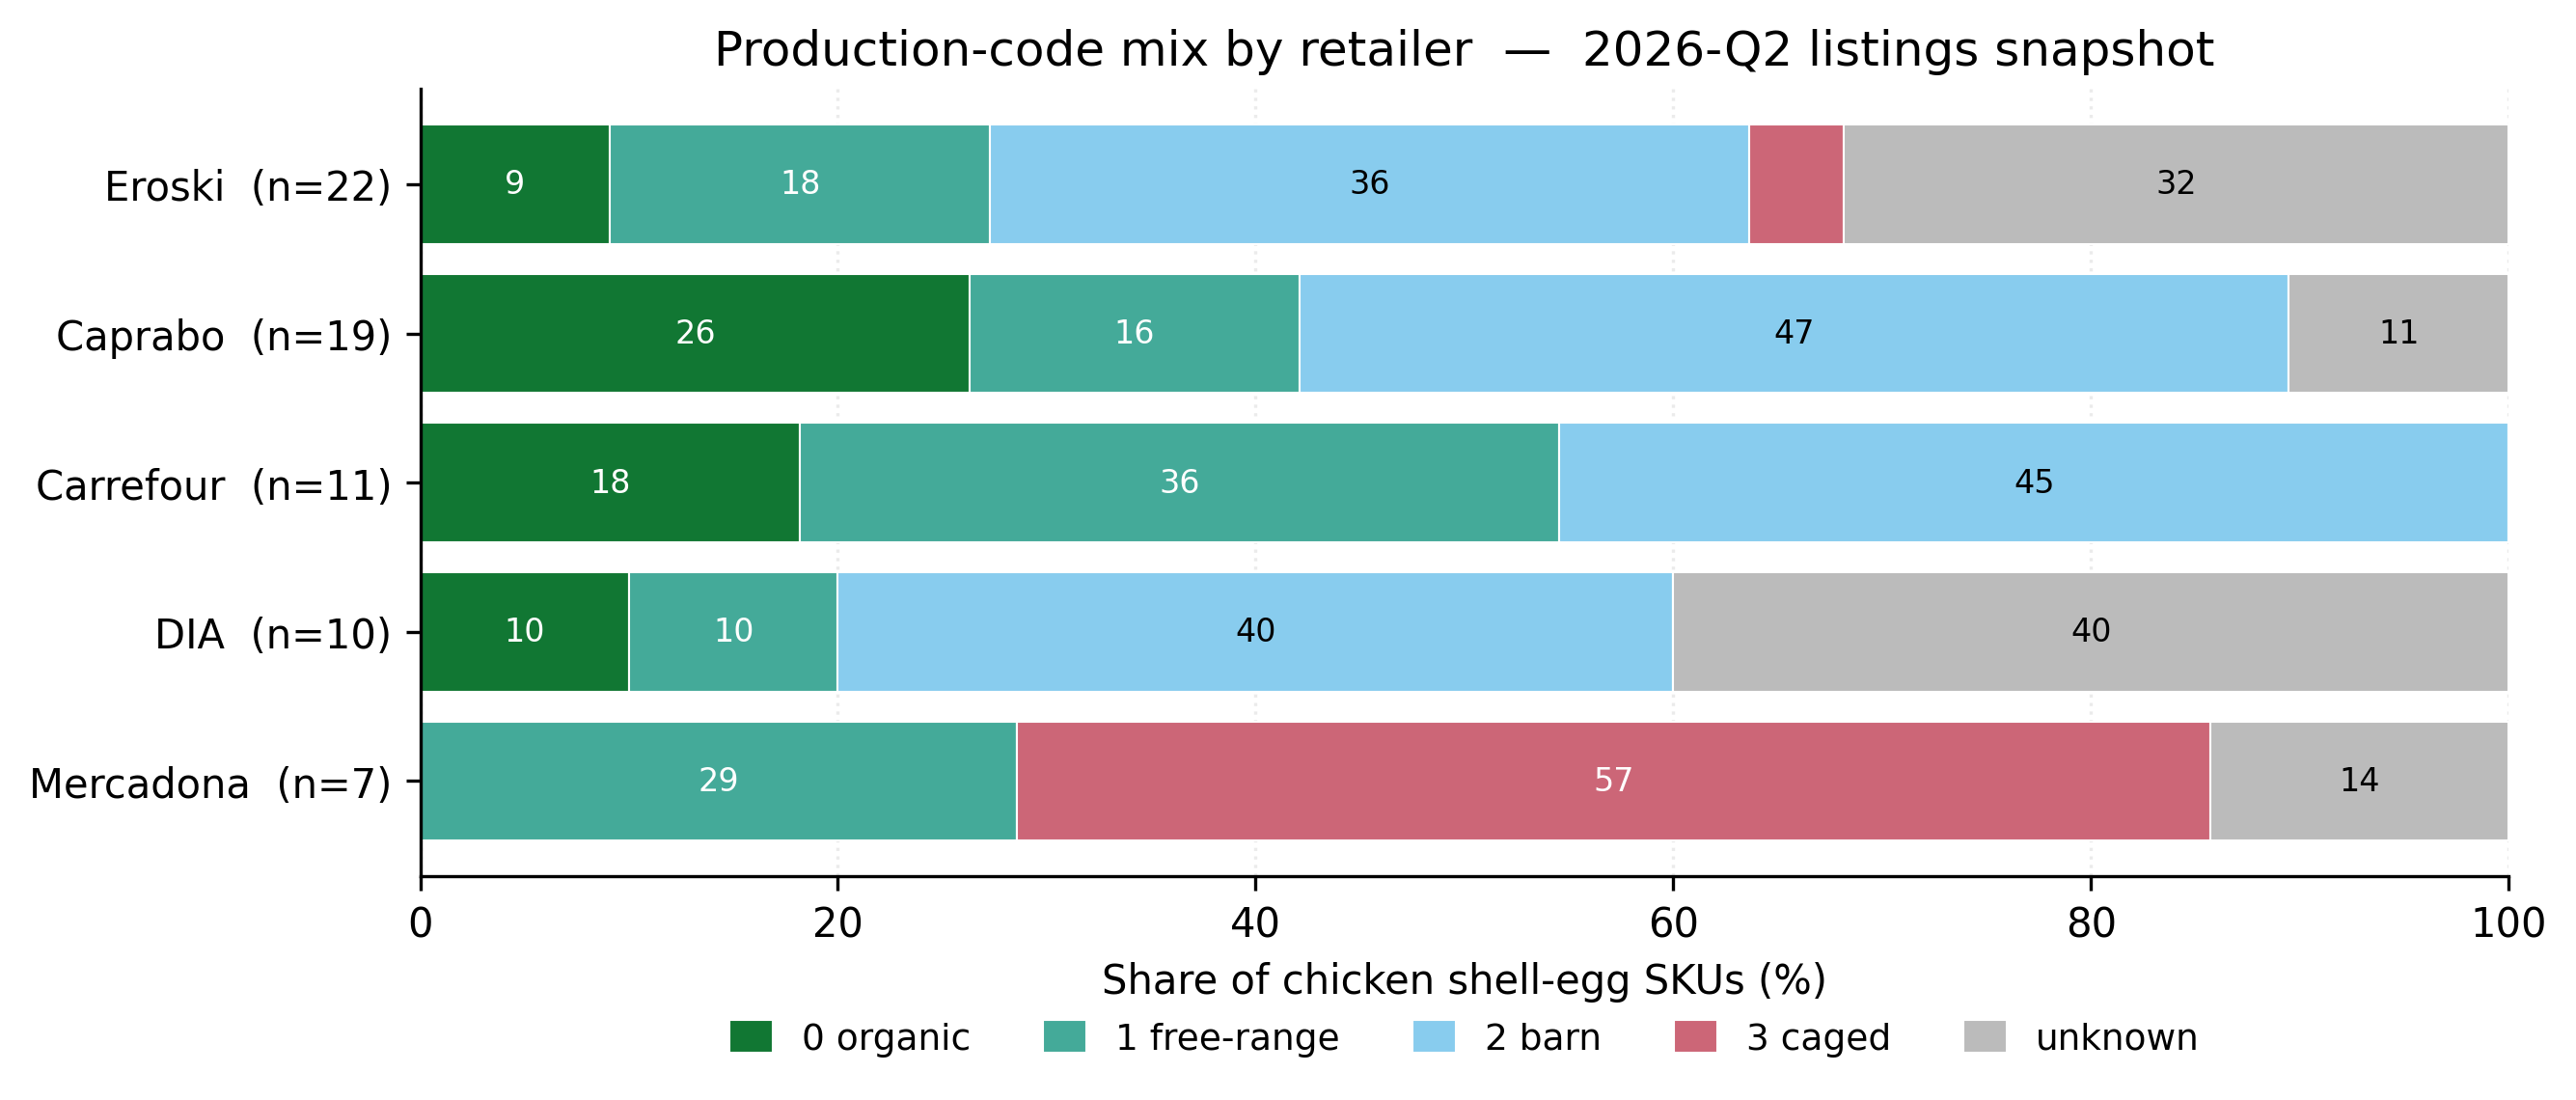
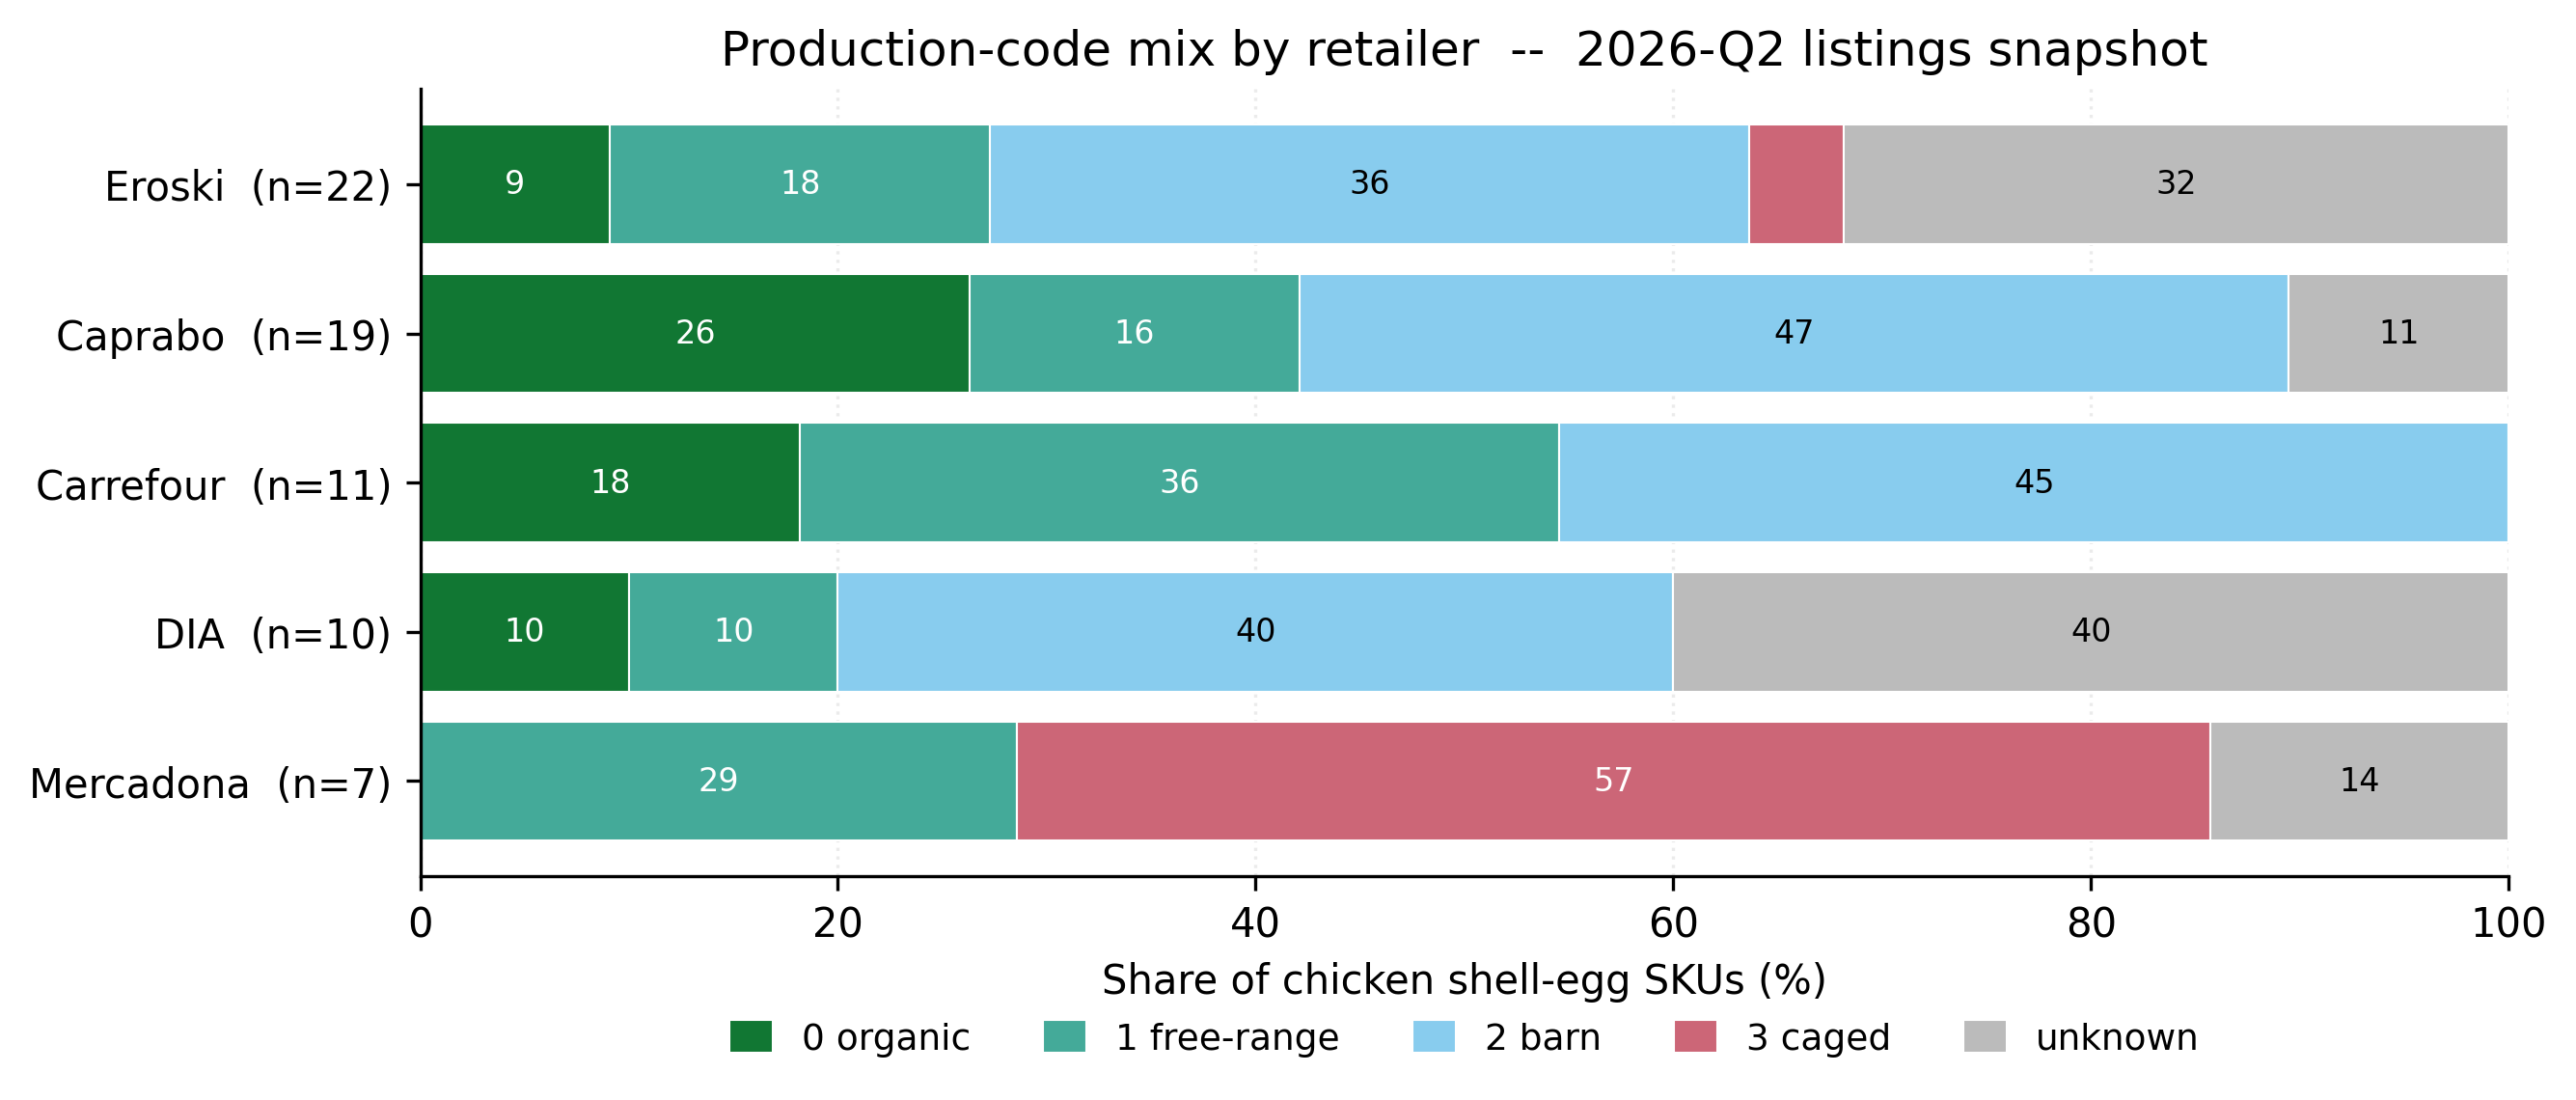
Revise report and redesign Figure 2 as box-and-whisker
10-point revision: define SKU early, add section on true estimate
bounds, restructure conclusions (Mercadona as prime target, Eglitis
& Kanepajs 2026 methodology reference), simplify AI disclosure.

Figure 2 redesigned: proper box-and-whisker via matplotlib bxp()
(box = strict to Bayes base, median = Bayes informed, whiskers =
Wilson 95% CI). Neutral grey whiskers for readability.

Changed region(s): [[0.2798, 0.0307, 0.8704, 0.0614]]

diff --git a/scripts/make_figures.py b/scripts/make_figures.py
@@ -1,7 +1,7 @@
 """Render the two report figures from scraper/data/comparison/<quarter>_comparison.json.
 
 Figure 1: stacked horizontal bar of SKU production-code mix by retailer.
-Figure 2: listings cage-free central vs prior 50% CI dumbbell, by retailer.
+Figure 2: box-and-whisker of listings cage-free estimates vs prior 50% CI.
 
 Run from project root:
     python scripts/make_figures.py 2026-Q2
@@ -28,10 +28,10 @@ COLOR_FREE_RANGE = "#44AA99"   # teal
 COLOR_BARN       = "#88CCEE"   # pale blue (still cage-free)
 COLOR_CAGED      = "#CC6677"   # muted red
 COLOR_UNKNOWN    = "#BBBBBB"   # neutral grey
-COLOR_PRIOR_BAND = "#DDDDDD"
-COLOR_INSIDE     = "#117733"   # green dot if listings central inside prior 50% CI
-COLOR_OUTSIDE    = "#CC6677"   # red dot if outside
-COLOR_REPORTED   = "#332288"   # navy for reported / prior central
+COLOR_PRIOR      = "#332288"   # navy for prior central + CI
+COLOR_BOX_IN     = "#117733"   # green box if listings central inside prior 50% CI
+COLOR_BOX_OUT    = "#CC6677"   # red box if outside
+COLOR_MEDIAN     = "#DDAA33"   # amber for median line inside box
 
 
 def quarter_tag_default() -> str:
@@ -44,38 +44,8 @@ def load(tag: str, root: Path) -> list[dict]:
     return json.loads(path.read_text(encoding="utf-8"))
 
 
-def fig1_sku_mix(rows: list[dict], out: Path, tag: str) -> None:
-    """Stacked horizontal bar — SKU code mix per retailer (excludes Eroski Group rollup)."""
-    rows = [r for r in rows if r["retailer"] != "Eroski Group" and (r.get("shell_egg_listings") or 0) > 0]
-    rows = sorted(rows, key=lambda r: r["shell_egg_listings"], reverse=True)
-
-    retailers = [r["retailer"] for r in rows]
-    n = [r["shell_egg_listings"] for r in rows]
-
-    # Each retailer's SKU mix as percentages of n.
-    def pct(r, k):
-        return 100.0 * r.get(k, 0) / r["shell_egg_listings"] if r["shell_egg_listings"] else 0.0
-
-    organic    = [pct(r, "organic")    for r in rows]
-    free_range = [pct(r, "free_range") for r in rows]
-    barn       = [pct(r, "barn")       for r in rows]
-    caged      = [pct(r, "caged_skus") for r in rows]
-    unknown    = [pct(r, "unknown_skus") for r in rows]
-
-    # Read the SKU code counts back from the source data so the function can use either
-    # the comparison-row schema (cage_free_skus split) or the summary-row schema.
-    # The comparison rows have organic/free_range/barn rolled up into cage_free_skus,
-    # so we need to load the per-row breakdown from the summary file.
-    pass  # handled below by reading summary
-
-    # For organic/free_range/barn split we need the per-summary row; the comparison
-    # row only has cage_free_skus. Load the summary file alongside.
-
-    return retailers, n, organic, free_range, barn, caged, unknown
-
-
 def fig1_sku_mix_v2(summary_rows: list[dict], out: Path, tag: str) -> None:
-    """Stacked horizontal bar — SKU code mix per retailer.
+    """Stacked horizontal bar -- SKU code mix per retailer.
 
     Uses the summary file (organic/free_range/barn split). Excludes Lidl
     (no shell-egg listings online) and the Eroski Group rollup.
@@ -122,7 +92,7 @@ def fig1_sku_mix_v2(summary_rows: list[dict], out: Path, tag: str) -> None:
     ax.invert_yaxis()
     ax.set_xlim(0, 100)
     ax.set_xlabel("Share of chicken shell-egg SKUs (%)")
-    ax.set_title(f"Production-code mix by retailer  —  {tag} listings snapshot")
+    ax.set_title(f"Production-code mix by retailer  --  {tag} listings snapshot")
     ax.spines["top"].set_visible(False)
     ax.spines["right"].set_visible(False)
     ax.grid(axis="x", alpha=0.25, linestyle=":")
@@ -136,86 +106,97 @@ def fig1_sku_mix_v2(summary_rows: list[dict], out: Path, tag: str) -> None:
     plt.close(fig)
 
 
-def fig2_central_vs_prior(comparison_rows: list[dict], out: Path, tag: str) -> None:
-    """Listings central (Bayesian-shrunk) vs prior 50% CI for each retailer.
+def fig2_box_whisker(comparison_rows: list[dict], out: Path, tag: str) -> None:
+    """Box-and-whisker of listings cage-free estimates vs prior 50% CI.
 
     For each retailer with both listings and a prior:
-      - draw the prior 50% CI as a horizontal grey band, with the prior central as a navy circle
-      - draw the listings strict-95% CI as a black whisker
-      - mark the listings Bayes(1,1) central (base case) as a coloured square (green if inside the prior 50% CI, red if outside)
-      - mark the listings Bayes(1,2) informed-prior central as a black diamond
-      - annotate the gap (central minus prior) in pp
+      - Box spans from strict estimate (q1) to Bayesian(1,1) base case (q3)
+      - Median line inside the box = Bayesian(1,2) informed prior
+      - Whiskers = Wilson 95% CI bounds
+      - Prior shown as a separate blue circle with 50% CI error bars
     """
-    rows = [r for r in comparison_rows if r.get("listings_central_pct") is not None and r.get("prior_estimate_pct") is not None]
-    # Sort by retailer egg-volume rank for visual narrative (largest at top).
+    rows = [r for r in comparison_rows
+            if r.get("listings_central_pct") is not None
+            and r.get("prior_estimate_pct") is not None]
     order = ["Mercadona", "Carrefour", "Lidl", "Eroski", "Caprabo", "DIA", "Eroski Group"]
     rows = sorted(rows, key=lambda r: order.index(r["retailer"]) if r["retailer"] in order else 99)
 
     fig, ax = plt.subplots(figsize=(9, 4.5), dpi=300)
     retailers = [r["retailer"] for r in rows]
-    y = list(range(len(retailers)))
+    y_positions = list(range(len(retailers)))
 
-    for yi, r in zip(y, rows):
-        prior_lo, prior_hi = (int(s) for s in r["prior_estimate_50ci"].split("-"))
+    for yi, r in zip(y_positions, rows):
         prior_pct = r["prior_estimate_pct"]
-        central = r["listings_central_pct"]
-        informed = r.get("listings_central_informed_pct", central)
-        strict_pct = r["listings_cf_strict_pct"]
+        prior_lo, prior_hi = (int(s) for s in r["prior_estimate_50ci"].split("-"))
+        strict = r["listings_cf_strict_pct"]
+        central = r["listings_central_pct"]       # Bayes(1,1) -- box upper edge
+        informed = r.get("listings_central_informed_pct", central)  # Bayes(1,2) -- median line
+        in_band = r["central_in_prior_50ci"]
+
         strict_ci_str = r.get("listings_cf_strict_95ci", "")
         if strict_ci_str:
-            strict_lo, strict_hi = (int(s) for s in strict_ci_str.split("-"))
+            wilson_lo, wilson_hi = (int(s) for s in strict_ci_str.split("-"))
         else:
-            strict_lo, strict_hi = strict_pct, strict_pct
+            wilson_lo, wilson_hi = strict, strict
 
-        in_band = r["central_in_prior_50ci"]
-        central_color = COLOR_INSIDE if in_band else COLOR_OUTSIDE
+        # Extend whiskers to cover both Wilson CI and box edges
+        whisker_lo = min(wilson_lo, strict)
+        whisker_hi = max(wilson_hi, central)
 
-        # Prior 50% CI as a horizontal band
-        ax.add_patch(mpatches.Rectangle((prior_lo, yi - 0.30), prior_hi - prior_lo, 0.60,
-                                        facecolor=COLOR_PRIOR_BAND, edgecolor="none", zorder=1))
-        # Prior central
-        ax.scatter([prior_pct], [yi], marker="o", s=70, color=COLOR_REPORTED, zorder=4, label="_nolegend_")
+        box_color = COLOR_BOX_IN if in_band else COLOR_BOX_OUT
 
-        # Strict 95% CI as a whisker line
-        ax.plot([strict_lo, strict_hi], [yi - 0.05, yi - 0.05], color="#444444", linewidth=1.2, zorder=2)
-        # Strict point estimate (small triangle)
-        ax.scatter([strict_pct], [yi - 0.05], marker="v", s=35, color="#444444", zorder=3)
+        # Draw box-and-whisker using matplotlib bxp (pre-computed stats)
+        box_stats = [{
+            "whislo": whisker_lo,
+            "q1": strict,
+            "med": informed,
+            "q3": central,
+            "whishi": whisker_hi,
+            "fliers": [],
+        }]
+        bp = ax.bxp(box_stats, positions=[yi - 0.12], vert=False, widths=0.38,
+                     patch_artist=True, showfliers=False,
+                     boxprops=dict(facecolor=box_color, alpha=0.35, edgecolor=box_color, linewidth=1.5),
+                     medianprops=dict(color=COLOR_MEDIAN, linewidth=2.0),
+                     whiskerprops=dict(color="#555555", linewidth=1.0),
+                     capprops=dict(color="#555555", linewidth=1.0))
 
-        # Bayes(1,1) base case
-        ax.scatter([central], [yi + 0.18], marker="s", s=80, color=central_color, edgecolor="white", linewidth=1.0, zorder=4)
-        # Bayes(1,2) informed-prior alternative — only annotate if it differs visibly,
-        # offset slightly upward so it doesn't sit on top of the Bayes(1,1) square
-        if abs(informed - central) >= 1:
-            ax.scatter([informed], [yi + 0.32], marker="D", s=45, color="black", zorder=4)
+        # Prior: blue circle with 50% CI error bars, slightly below the box
+        ax.errorbar(prior_pct, yi + 0.22, xerr=[[prior_pct - prior_lo], [prior_hi - prior_pct]],
+                     fmt="o", color=COLOR_PRIOR, markersize=7, capsize=4, capthick=1.2,
+                     elinewidth=1.2, zorder=5)
 
-        # Gap annotation in a right-hand column at fixed x, aligned across rows
+        # Gap annotation
         gap = r["diff_central_minus_prior_pp"]
         if gap is not None:
-            sign = "+" if gap > 0 else ("" if gap == 0 else "")
-            ax.text(106, yi, f"{sign}{gap} pp", va="center", ha="left",
-                    fontsize=9, color=central_color, fontweight="bold" if abs(gap) >= 10 else "normal")
+            sign = "+" if gap > 0 else ""
+            ax.text(108, yi, f"{sign}{gap} pp", va="center", ha="left",
+                    fontsize=9, color=box_color, fontweight="bold" if abs(gap) >= 10 else "normal")
 
-    ax.set_yticks(y)
+    ax.set_yticks(y_positions)
     ax.set_yticklabels(retailers)
     ax.invert_yaxis()
-    ax.set_xlim(0, 105)
+    ax.set_xlim(0, 107)
     ax.set_xlabel("Cage-free share (%)")
-    ax.set_title(f"Listings cage-free central vs prior 50% CI  —  {tag}")
+    ax.set_title(f"Listings cage-free estimates vs prior  --  {tag}")
     ax.spines["top"].set_visible(False)
     ax.spines["right"].set_visible(False)
     ax.grid(axis="x", alpha=0.25, linestyle=":")
     ax.set_axisbelow(True)
 
-    # Legend — explain marker semantics rather than colours per retailer.
+    # Legend
     legend_items = [
-        mpatches.Patch(facecolor=COLOR_PRIOR_BAND, label="Prior 50% CI (subjective band)"),
-        plt.Line2D([0], [0], marker="o", color=COLOR_REPORTED, markersize=8, linestyle="None", label="Prior central (reported / blended)"),
-        plt.Line2D([0], [0], marker="s", color=COLOR_INSIDE, markersize=8, linestyle="None", label="Listings Bayes(1,1) — inside 50% CI"),
-        plt.Line2D([0], [0], marker="s", color=COLOR_OUTSIDE, markersize=8, linestyle="None", label="Listings Bayes(1,1) — outside 50% CI"),
-        plt.Line2D([0], [0], marker="D", color="black", markersize=6, linestyle="None", label="Listings Bayes(1,2) informed prior"),
-        plt.Line2D([0], [0], marker="v", color="#444444", markersize=6, linestyle="None", label="Listings strict (Wilson 95% CI shown)"),
+        mpatches.Patch(facecolor=COLOR_BOX_IN, alpha=0.35, edgecolor=COLOR_BOX_IN,
+                       label="Listings range (strict to Bayes base) -- consistent"),
+        mpatches.Patch(facecolor=COLOR_BOX_OUT, alpha=0.35, edgecolor=COLOR_BOX_OUT,
+                       label="Listings range -- inconsistent with prior"),
+        plt.Line2D([0], [0], color=COLOR_MEDIAN, linewidth=2, label="Bayes(1,2) informed estimate"),
+        plt.Line2D([0], [0], color="#555555", linewidth=1.0,
+                   label="Wilson 95% CI whiskers"),
+        plt.Line2D([0], [0], marker="o", color=COLOR_PRIOR, markersize=7, linestyle="None",
+                   label="Prior central (50% CI error bars)"),
     ]
-    ax.legend(handles=legend_items, loc="lower center", bbox_to_anchor=(0.5, -0.32),
+    ax.legend(handles=legend_items, loc="lower center", bbox_to_anchor=(0.5, -0.35),
               ncol=2, frameon=False, fontsize=8)
 
     fig.tight_layout()
@@ -235,7 +216,7 @@ def main() -> None:
     out2 = out_dir / f"fig2_listings_vs_prior_{tag}.png"
 
     fig1_sku_mix_v2(summary_rows, out1, tag)
-    fig2_central_vs_prior(comparison_rows, out2, tag)
+    fig2_box_whisker(comparison_rows, out2, tag)
 
     print(f"Wrote {out1}")
     print(f"Wrote {out2}")

diff --git a/spain_egg_listings_2026Q2.md b/spain_egg_listings_2026Q2.md
@@ -1,18 +1,20 @@
-# Listing-level cage-free check on Spain's top-5 grocery retailers — 2026-Q2
+# Listing-level cage-free check on Spain's top-5 grocery retailers -- 2026-Q2
 
 **Snapshot 2026-05-04. n = 69 chicken shell-egg SKUs across Mercadona, Carrefour, Lidl, Eroski (with subsidiary Caprabo) and DIA. Quarterly rerunnable scraper at `scraper/`.**
 
-## Headline
-
-- Of the five retailers with both listings data and a prior cage-free estimate, **two (Carrefour, Caprabo) are consistent with the prior at the 50% CI level; three (Mercadona, Eroski, DIA) are not**.
-- **Mercadona is the only retailer where caged SKUs remain quantitatively visible**: 4 of 7 shell-egg SKUs carry the regulator-required `criadas en jaulas` disclosure. The listings central is 34% versus a reported 65%, a 31 pp gap. Pack-size weighting narrows but does not close this gap (21--50% depending on how the unknown 24-pack is classified), suggesting the reconciliation lies in sales velocity, not shelf presence.
-- **Eroski (+49 pp) and DIA (+37 pp) likely reflect stale priors**, not true overperformance. Eroski's prior rests on a 2018 baseline now eight years old. DIA's strict metric (60%) almost exactly matches its 58% prior; the gap is driven by Bayesian allocation of unknowns.
-- **Carrefour discloses `Tipo de producción` on every shell-egg detail page**, the only retailer in the sample doing so. All 11 unique SKUs across Madrid + Barcelona postcodes are explicitly cage-free.
-- **Eroski Group (Eroski + Caprabo) combined: n = 41, listings central 96% (Bayes(1,1)), 76% strict.** Useful as a tighter standalone estimate than either subsidiary alone.
+A SKU (stock-keeping unit) is a single unique product listing in a retailer's online catalogue, identified by a distinct product name and package configuration (e.g., "Huevos camperos L EROSKI 12u" is one SKU). The analysis counts SKUs, not units sold.
 
 ## Method
 
-The scraper records every chicken shell-egg SKU listed on each retailer's online catalogue, classifies it by EU production code (0 organic, 1 free-range, 2 barn, 3 caged) and computes a listing-level cage-free share. Classification uses an explicit production-system field where available (Carrefour `Tipo de producción`; Mercadona `mandatory_mentions`; Eroski / Caprabo product-detail `caracteristicas`); otherwise it falls back to keyword in the SKU name (`ecológico`, `campero`, `suelo`, `jaula` and Catalan equivalents). SKUs with no signal are flagged `unknown`. Three central estimates are reported: a **Bayesian Beta(1,1) Laplace shrinkage** (base case, allocates each unknown to cage-free with posterior probability `(cf + 1) / (cf + caged + 2)` of the classified mix); a **Bayesian Beta(1,2) informed prior** with prior mean 1/3 anchored to Spain's national production cage-free share; and a **strict** metric that treats every unknown as not-cage-free, with a Wilson 95% CI. The **consistency test** asks whether each retailer's listings central falls inside the prior task's subjective 50% CI.
+The scraper records every chicken shell-egg SKU listed on each retailer's online catalogue (Spain-specific sites: mercadona.es, carrefour.es, eroski.es, caprabo.es; DIA via the Soysuper.com aggregator because dia.es blocks automated access; Lidl has no online shell-egg listings). Each SKU is classified by EU production code (0 organic, 1 free-range, 2 barn, 3 caged) using an explicit production-system field where available (Carrefour `Tipo de produccion`; Mercadona `mandatory_mentions`; Eroski / Caprabo product-detail `caracteristicas`), otherwise by keyword in the SKU name (`ecologico`, `campero`, `suelo`, `jaula` and Catalan equivalents). SKUs with no signal are flagged `unknown`.
+
+Three central estimates are reported because each makes a different assumption about unknown-class SKUs:
+
+- **Strict** -- treats every unknown as not-cage-free. Conservative lower bound. Wilson 95% CI included.
+- **Bayesian Beta(1,1)** (base case) -- Laplace-shrunk posterior on classified SKUs; each unknown counts toward cage-free with probability `(cf + 1) / (cf + caged + 2)`. Avoids brittle 0/100 edge cases when caged=0 or cf=0.
+- **Bayesian Beta(1,2)** (informed prior) -- prior mean 1/3, anchored to Spain's national production cage-free share (~33%, WATTPoultry 2023). Reflects the premise that unlabelled Spanish egg SKUs are more likely caged than cage-free.
+
+The **consistency test** asks whether each retailer's listings central (Bayesian base case) falls inside the prior task's subjective 50% CI, derived from EggTrack 2024, OBA May 2025 benchmark, and retailer corporate disclosures. Prior sources are itemized in the Sources table.
 
 ## Results
 
@@ -26,13 +28,13 @@ The scraper records every chicken shell-egg SKU listed on each retailer's online
 | DIA | 10 | 1/1/4/0/4 | **95** | 91 | 60 (31--83) | 58 (52--63) | +37 | **no** |
 | **Eroski Grp** | **41** | 7/7/17/1/9 | **96** | 96 | 76 (61--86) | -- | -- | -- |
 
-*Bayes(1,1): Laplace-shrunk posterior on classified SKUs, unknowns allocated proportionally. Bayes(1,2): informed prior (mean 1/3, Spain national CF share). Strict: unknowns counted as not cage-free, Wilson 95% CI. Prior from EggTrack 2024, OBA May 2025 benchmark, and retailer disclosures.*
+*Bayes(1,1): Laplace-shrunk posterior on classified SKUs, unknowns allocated proportionally. Bayes(1,2): informed prior (mean 1/3, Spain national cage-free share). Strict: unknowns counted as not cage-free, Wilson 95% CI. Prior from EggTrack 2024, OBA May 2025 benchmark, and retailer disclosures.*
 
-**Carrefour matches the prior cleanly.** All 11 unique SKUs across Madrid + Barcelona postcodes expose `Tipo de producción` on the detail page; classification is 100% explicit, all cage-free. The 100% point estimate sits inside the 98--100 prior.
+**Carrefour matches the prior cleanly.** All 11 unique SKUs across Madrid + Barcelona postcodes expose `Tipo de produccion` on the detail page; classification is 100% explicit, all cage-free. The 100% point estimate sits inside the 98--100 prior.
 
 **Mercadona is the largest negative gap.** Four of seven shell-egg SKUs carry the regulator-required `criadas en jaulas` ("caged hens") disclosure; two are `camperas` (free-range); one 24-pack is unclassified. The listings central of 34% is 31 pp below the reported 65%. A rough pack-size weighting (inferred from prices, since the API omits pack counts) yields 21--50% depending on how the unknown 24-pack is classified -- still well below 65%, so the gap is not explained by volume weighting alone. The most plausible reconciliation is that `camperas` SKUs dominate actual sales volume, or that corporate figures lag the current shelf state. EggTrack 2024 rates Mercadona "At risk"; OBA's May 2025 benchmark independently confirms the 65% self-report.
 
-**Eroski and DIA: priors look too pessimistic.** Eroski's 43% prior rests on an eight-year-old 2018 ESM baseline (the weakest prior in this analysis). Detail-page enrichment found 14 cage-free, 1 caged, 7 unknown; even a 50/50 split on unknowns gives ~75%, well outside the 32--58 band. DIA's strict metric (60%) matches its prior (58%) almost exactly, but the 4 unqualified own-brand packs are heavily category-correlated, so **the truth likely lies between strict and Bayesian central** for both retailers.
+**Eroski and DIA: priors look too pessimistic.** Eroski's 43% prior rests on an eight-year-old 2018 ESM baseline (the weakest prior in this analysis). Detail-page enrichment found 14 cage-free, 1 caged, 7 unknown; even a 50/50 split on unknowns gives ~75%, well outside the 32--58 band. DIA's strict metric (60%) matches its prior (58%) almost exactly, but the 4 unqualified own-brand packs are heavily category-correlated, so the truth likely lies between strict and Bayesian central for both retailers.
 
 **Caprabo** (n=19, Eroski's Catalan subsidiary) is consistent with the prior (central 99% inside the 95--100 band). **Lidl** stays external-only: lidl.es does not list fresh shell eggs online.
 
@@ -40,11 +42,27 @@ The scraper records every chicken shell-egg SKU listed on each retailer's online
 *Figure 1. SKU-level production-code mix per retailer (chicken shell eggs only). Mercadona is the only retailer with explicitly caged SKUs at >0 count; DIA and Eroski carry the highest unknown-classification share. Lidl excluded (no online shell-egg listings).*
 
 ![Figure 2](fig2_listings_vs_prior_2026-Q2.png)
-*Figure 2. Listings cage-free central (Bayes(1,1) base case + Bayes(1,2) informed prior) and strict-metric Wilson 95% CI versus the prior 50% CI band. Green squares mark listings central inside the prior 50% CI; red squares mark outside. Bayes(1,2) (black diamonds) reflects an informed prior with mean 1/3 anchored to Spain's national production cage-free share. Gap labels in pp at right.*
+*Figure 2. Listings cage-free estimates (box-and-whisker) versus prior 50% CI (blue error bars). Box spans from strict (conservative) to Bayesian base-case estimate; line inside marks the Bayesian informed-prior estimate; whiskers extend to the Wilson 95% CI bounds. Prior central is shown as a blue circle with 50% CI error bars.*
 
-## What the listings share does and does not measure
+## Where the true cage-free share probably lies
 
-This is a **shelf-presence / transparency** indicator, not a sales-share measure. A retailer with 50% cage-free SKUs by count could still sell 80% caged eggs by volume. Corporate figures (and EggTrack tracking) are typically volume-weighted, so divergence between listings and reported is informative but not evidence of misreporting. The listings share also does not capture SKU rotation, postcode variation beyond Madrid + Barcelona, third-party brands at DIA (Soysuper returns DIA-brand only), ingredient eggs, or food-service channels.
+The three point estimates reported above should not be read in isolation. The **true listing-level cage-free share almost certainly lies below the Bayesian base case but above the strict metric**, for two reasons:
+
+1. **The Bayesian central overstates cage-free share.** Retailers have a marketing incentive to label cage-free products explicitly ("campero," "ecologico," "de suelo"), because cage-free labelling is a selling point. A SKU that carries no housing-system signal is therefore more likely to be caged than cage-free. The Bayesian Beta(1,1) allocates unknowns with a symmetric prior (mean 0.5), which does not reflect this asymmetry. The Beta(1,2) informed prior (mean 1/3) partially corrects for it but may still be too generous.
+
+2. **The strict metric understates cage-free share.** Some genuinely cage-free SKUs may lack explicit labelling simply because the retailer's catalogue system does not surface the information -- a data-quality gap, not a housing-system signal. Treating every unknown as caged is conservative to the point of being implausible for retailers like Eroski, where 7 of 22 SKUs are unknown but 14 are already classified cage-free.
+
+For retailers with few unknowns (Carrefour: 0; Caprabo: 2), the three estimates converge and this distinction is immaterial. For retailers with many unknowns (Eroski: 7/22; DIA: 4/10), the gap between strict and Bayesian is wide, and the truth is somewhere inside the box shown in Figure 2.
+
+## Conclusions
+
+**Mercadona is performing worse than the prior suggested, and given its large market share (~27% of Spanish grocery), it is a prime target for advocacy.** The listings central of 34% is 31 pp below the reported 65%. Even under the most optimistic allocation of unknowns, Mercadona is the only retailer in this sample where explicitly caged SKUs outnumber cage-free ones. Its original end-2022 cage-free commitment has already slipped to end-2025; EggTrack 2024 rates it "At risk." Mercadona's scale means that its shortfall alone accounts for more caged eggs than the entire egg sales of Eroski and DIA combined.
+
+**The listing-level data is scarce for most retailers, and listings may not be representative of what is actually sold.** This analysis counts SKUs, not sales volume. A retailer with 50% cage-free SKUs could still sell 80% caged eggs by volume if the caged products are the cheap, high-turnover own-brand lines. Corporate figures (and EggTrack tracking) are typically volume-weighted, so divergence between listings and reported shares is informative but not evidence of misreporting. On-site shelf audits and purchase-receipt surveys are more reliable for establishing actual sales volumes.
+
+**[Eglitis & Kanepajs (2026)](https://www.dzivniekubriviba.lv/assets/downloadable-assets/ekonomiska-analize-par-dejejvistu-sprostu-aizlieguma-ietekmi-latvija.pdf) demonstrate an on-site investigation methodology that could be adapted for the Spanish market.** Their field survey of Latvian retailers used volunteer-mobilized shelf audits to verify cage-free claims and measure actual shelf presence, producing more reliable data than online catalogue scraping alone. A similar approach for Spain's top-5 retailers would ground-truth the listing-level estimates reported here.
+
+Better data can also come through corporate engagement: cage-free share reporting can be made part of formal agreements with retailers during corporate negotiations. But even with such agreements in place, independent on-site investigations remain valuable to validate and verify the information reported by companies, especially while clear and standardized reporting practices have not yet been established across the industry.
 
 ## Quarterly watchlist
 
@@ -65,21 +83,23 @@ Stable SKU IDs are written into the schema, so 2026-Q3 will distinguish true SKU
 | Carrefour 100% fresh, 35% ingredient eggs | [OBA, Carrefour page](https://observatoriodebienestaranimal.org/actualidad/noticias/carrefour.html) | 2 | "Carrefour is only at 35% in its commitment regarding the use of cage-free hen eggs as an ingredient in its private-label products." |
 | Mercadona end-2022 commitment missed; current target end-2025 | [OBA, Mercadona blog](https://observatoriodebienestaranimal.org/actualidad/blog-oba/supermercado-mercadona.html); [EggTrack 2024](https://www.eggtrack.com/) | 2 | EggTrack 2024 classifies Mercadona "At risk." OBA flags doubts about meeting the 2025 deadline. |
 | Top-5 retailer market share ~51% of Spanish FMCG | [Kantar Worldpanel, "Spain top 5 retail chains"](https://www.kantar.com/inspiration/fmcg/spain-top-5-retail-chains-account-for-more-than-half-of-grocery-market-value) | 1 | "Together account for more than half of total FMCG spend." |
-| Spain grocery spending 2024 = €122 bn | [ESM via NielsenIQ, "Spanish grocery spending hits record €122bn"](https://www.esmmagazine.com/retail/spanish-grocery-spending-hits-record-e122bn-in-2024-281344) | 2 / 1 | NielsenIQ Consumer Trends 2024. |
+| Spain grocery spending 2024 = EUR 122 bn | [ESM via NielsenIQ, "Spanish grocery spending hits record EUR 122bn"](https://www.esmmagazine.com/retail/spanish-grocery-spending-hits-record-e122bn-in-2024-281344) | 2 / 1 | NielsenIQ Consumer Trends 2024. |
 | EU egg production codes (0 organic, 1 free-range, 2 barn, 3 caged) | [European Commission, Marketing standards for eggs](https://agriculture.ec.europa.eu/farming/animal-products/eggs_en) | 1 | EU regulatory framework. |
 | Soysuper (DIA workaround source) | [soysuper.com](https://www.soysuper.com/) | 3 | Aggregator; used because dia.es is Akamai-blocked at the edge. |
+| On-site investigation methodology for laying-hen cage-free verification | [Eglitis & Kanepajs, 2026](https://www.dzivniekubriviba.lv/assets/downloadable-assets/ekonomiska-analize-par-dejejvistu-sprostu-aizlieguma-ietekmi-latvija.pdf) | 2 | Field survey of Latvian retailers using volunteer-mobilized shelf audits. |
 
-Tier 1 = primary / regulatory / first-party corporate; Tier 2 = trade press citing primary; Tier 3 = aggregator or secondary.
+Tier 1 = primary / regulatory / first-party corporate; Tier 2 = trade press citing primary or independent research; Tier 3 = aggregator or secondary.
 
 ## Tools used and AI disclosure
 
-Tools used: Claude Code (Opus 4.7) for scraper development, comparison-script revision, figure rendering and report drafting; Claude-in-Chrome browser automation for Carrefour multi-postcode capture (Cloudflare workaround); Node.js with cheerio for Eroski / Caprabo HTML parsing and detail-page enrichment; Mercadona public JSON API; Soysuper public JSON API for DIA fallback; Playwright with stealth patches tested for direct DIA access (negative result documented). Statistical methods: Wilson 95% CI for binomial proportions; Bayesian Beta(1,1) and Beta(1,2) posterior-mean allocation of unknown SKUs. Analytical framework, methodology choices and editorial judgement are the author's own.
+Claude Code (Anthropic) was used for scraper development and for drafting and editing of this report.
 
 ## Did not do / assumed / skipped / did not verify
 
 - Cage-free % is straight SKU count, not volume-weighted. A rough pack-size weighting for Mercadona (see per-retailer analysis) narrows but does not close the gap.
-- DIA: relied on Soysuper aggregator (DIA-brand SKUs only); true DIA n could be 50--100% higher with the full third-party catalogue.
+- DIA: relied on Soysuper aggregator (DIA-brand SKUs only); true DIA catalogue could be 50--100% larger with the full third-party assortment.
 - Carrefour: only Madrid 28232 and Barcelona 08001 postcodes. Eroski / Caprabo: 9 of 41 group SKUs remain unknown after detail-page enrichment.
 - Bayesian Beta(1,2) informed prior is anchored to Spain's national production-side cage-free share (~33%); a retail-side anchor was not constructed.
-- Wilson 95% CI assumes IID SKUs; does not capture rotation, postcode variation, or volume weighting. Eroski Group combined row treats Eroski + Caprabo as exchangeable.
+- Wilson 95% CI assumes IID SKUs; does not capture rotation, postcode variation, or volume weighting.
+- Did not verify whether the Eglitis & Kanepajs (2026) volunteer-audit methodology would transfer directly to the Spanish retail context; the recommendation is directional.
 - Caprabo's 100% (95--100) prior is from a 2022 Eroski sustainability report and may be stale.